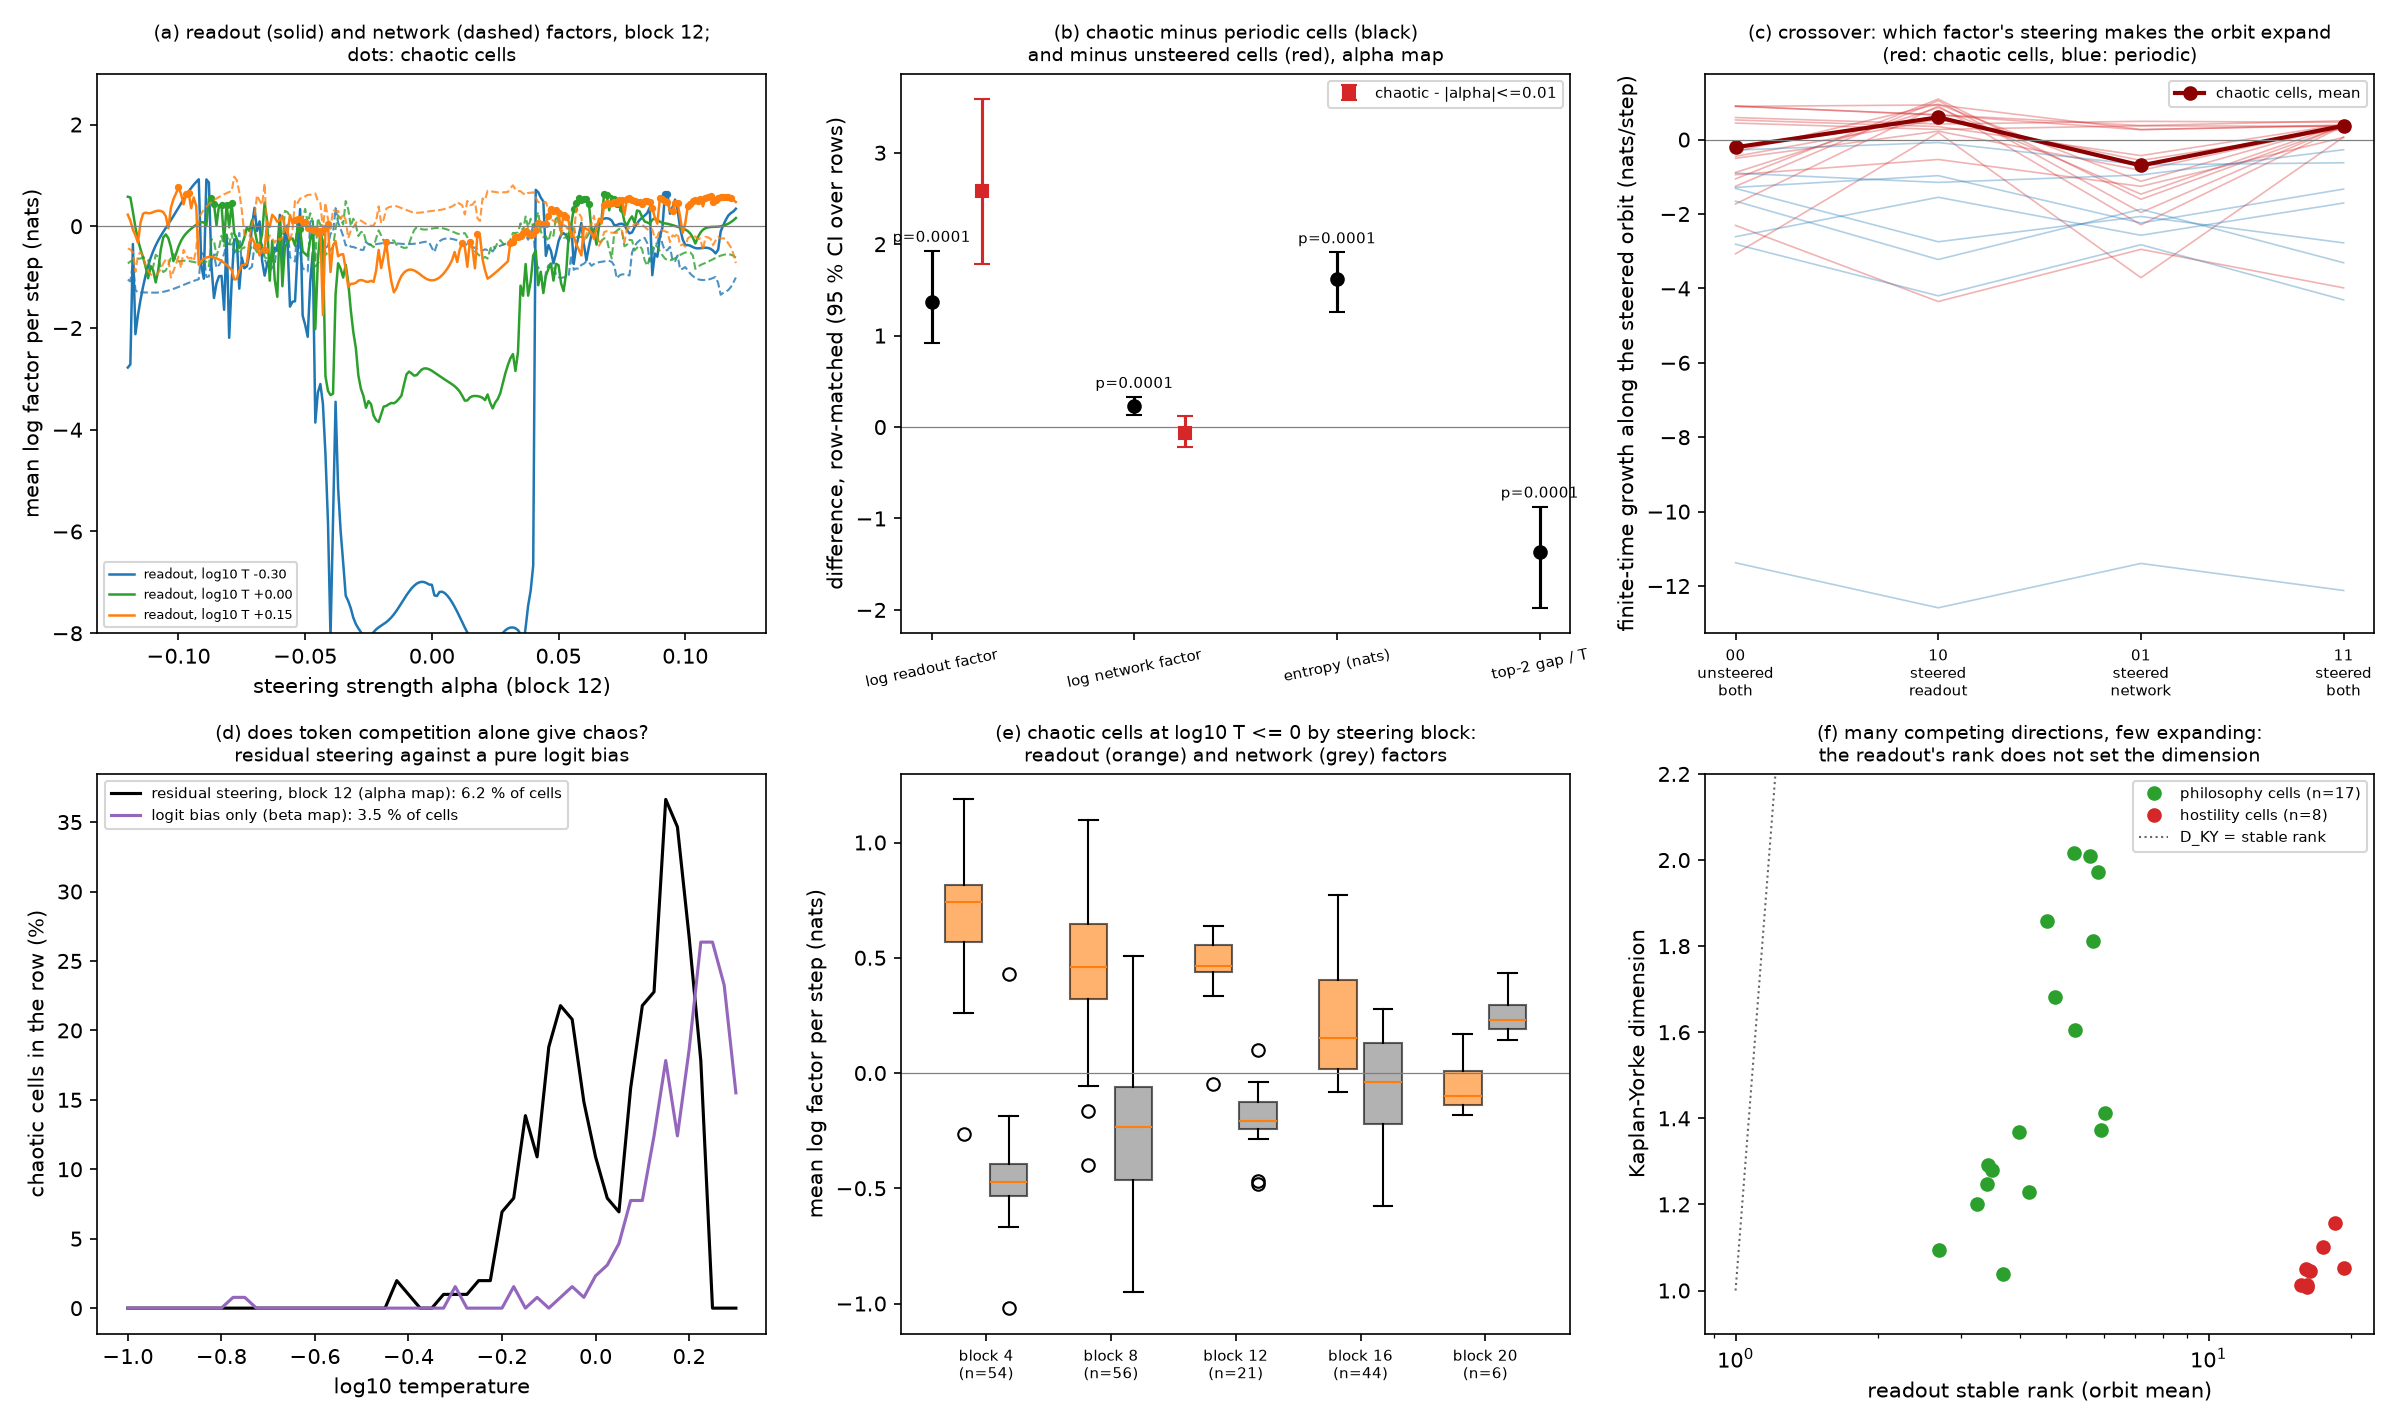
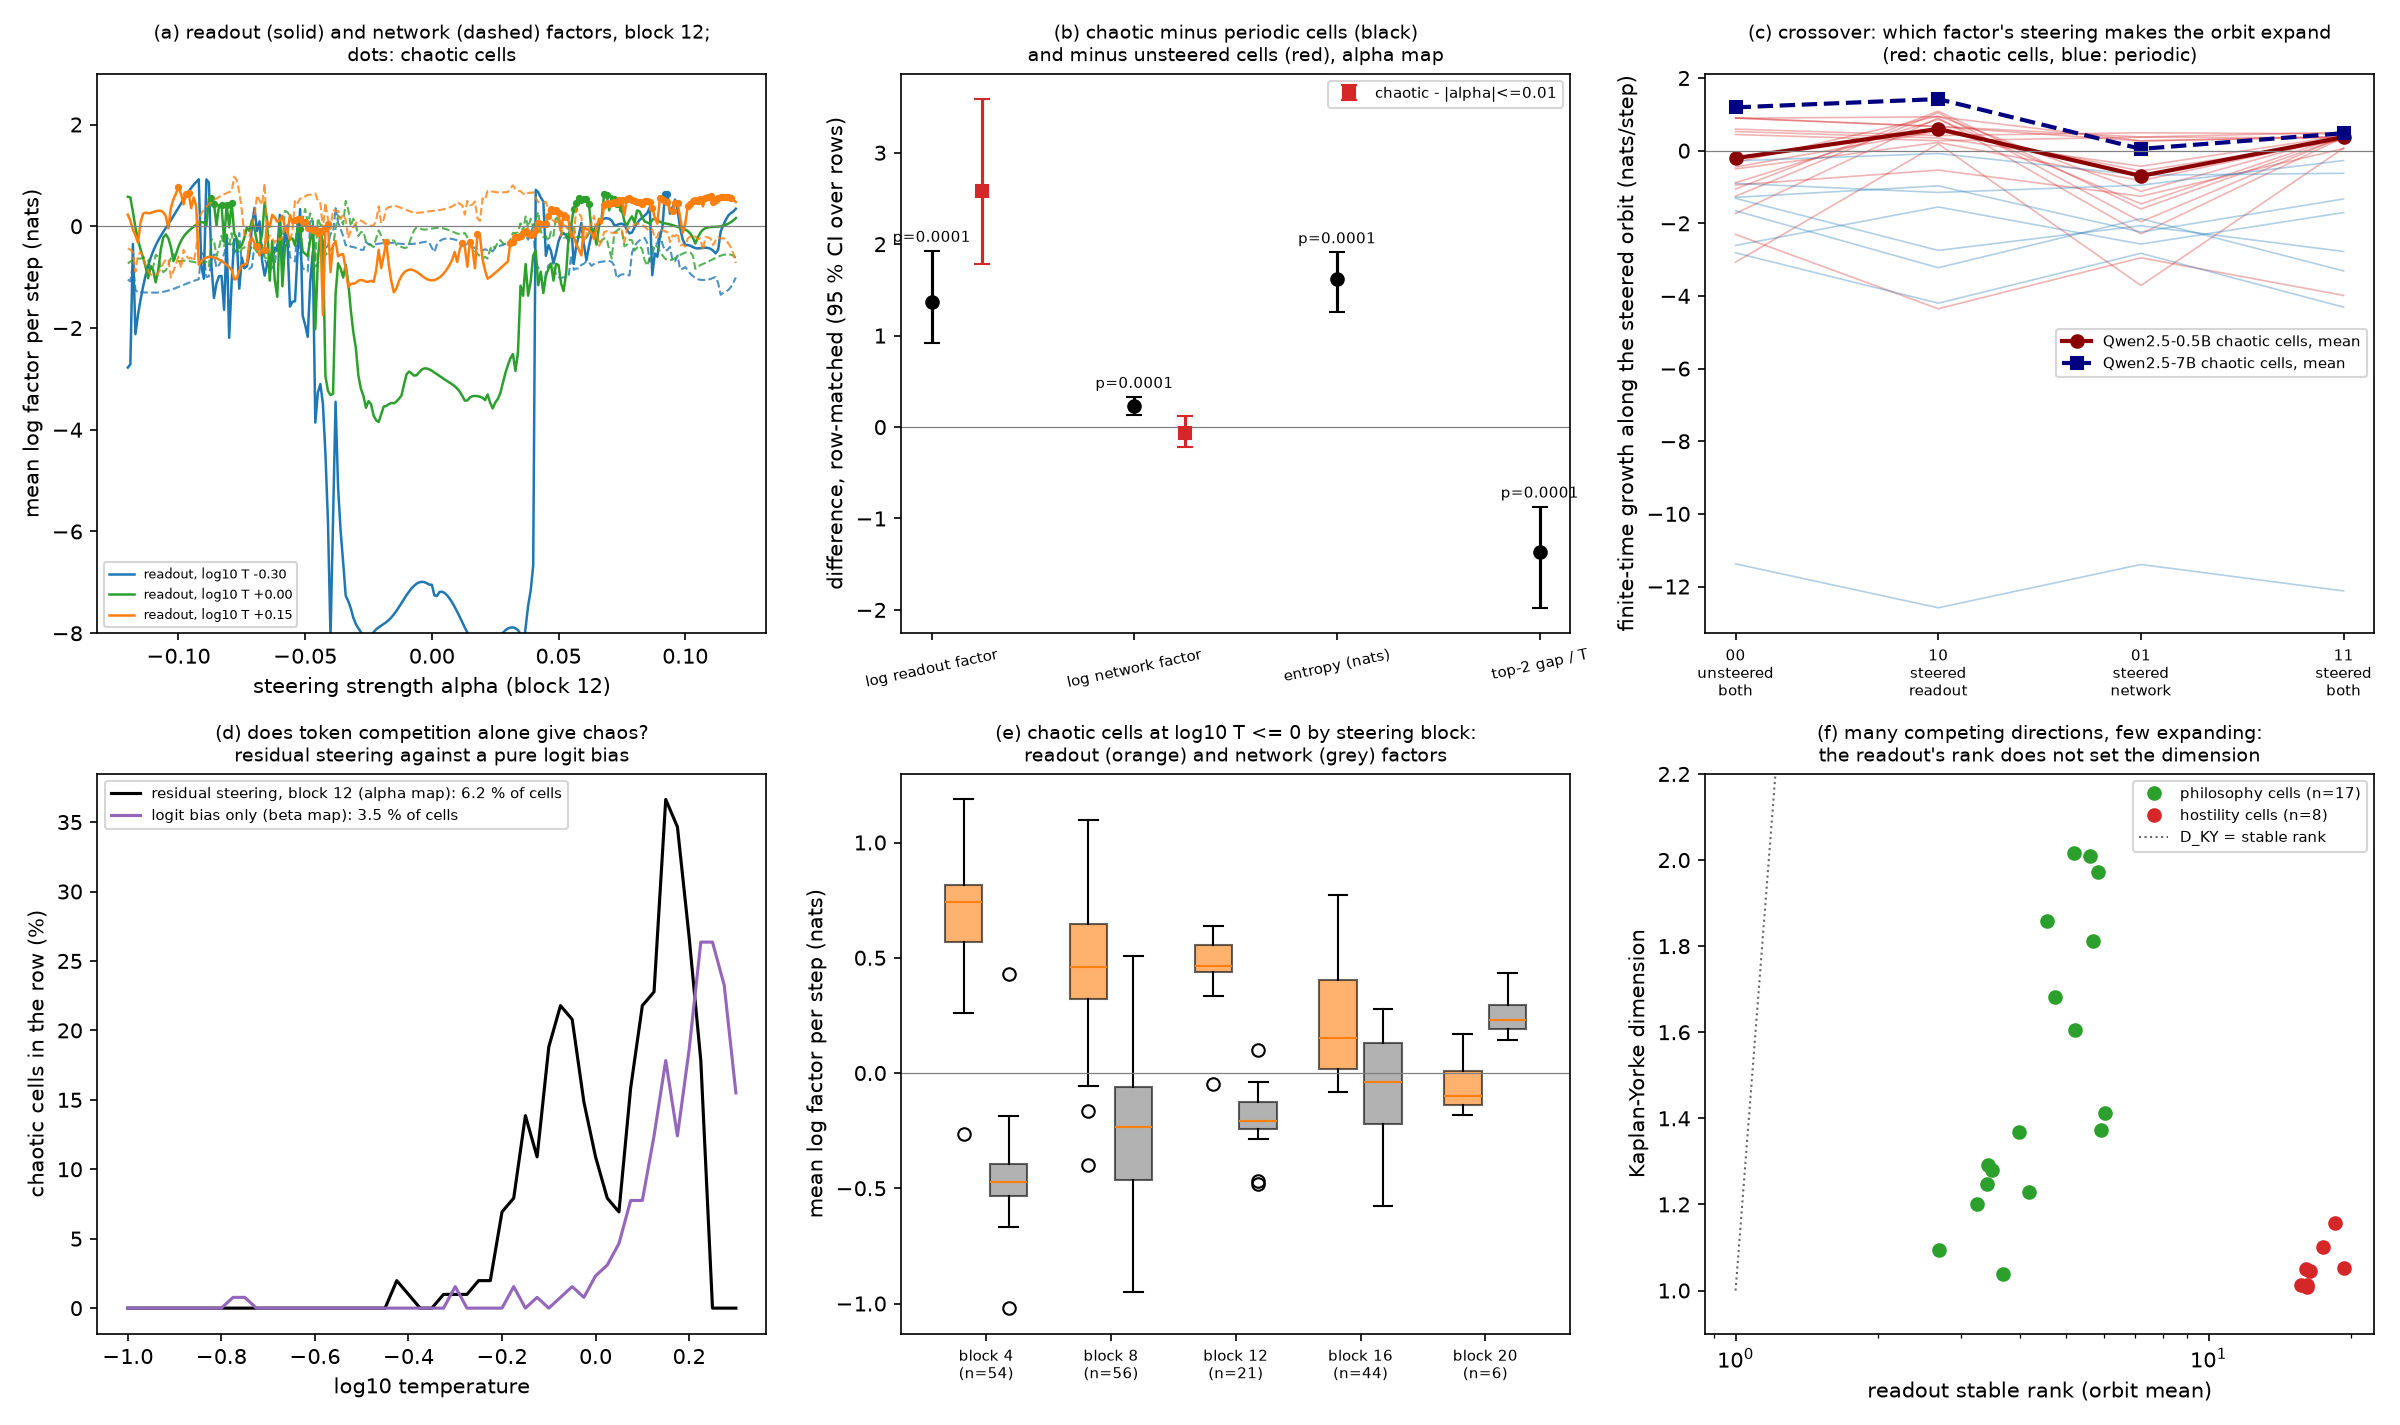
fig-mechanism (c): 7B crossover mean added

Changed region(s): [[0.7188, 0.0618, 1.0, 0.2779]]

diff --git a/tools/plot_mechanism.py b/tools/plot_mechanism.py
@@ -157,7 +157,7 @@ def main():
         sel = chao & held
         if sel.sum():
             m = X[sel].mean(0)
-            ax.plot(range(4), m, "o-", color="darkred", lw=2, label="chaotic cells, mean")
+            ax.plot(range(4), m, "o-", color="darkred", lw=2, label="Qwen2.5-0.5B chaotic cells, mean")
             contr = {"readout_effect (10-00)": X[sel, 1] - X[sel, 0], "network_effect (01-00)": X[sel, 2] - X[sel, 0],
                      "interaction (11-10-01+00)": X[sel, 3] - X[sel, 1] - X[sel, 2] + X[sel, 0],
                      "full_minus_readout_only (11-10)": X[sel, 3] - X[sel, 1]}
@@ -177,6 +177,22 @@ def main():
                                         "readout_effect": float((X[part, 1] - X[part, 0]).mean()),
                                         "network_effect": float((X[part, 2] - X[part, 0]).mean()),
                                         "interaction": float((X[part, 3] - X[part, 1] - X[part, 2] + X[part, 0]).mean())}
+        xo7_f = DATA / "xo" / "cells7" / "crossover.json"
+        if xo7_f.exists():                               # the 7B replication (run XO7): mean over held-out chaotic cells
+            xo7 = json.loads(xo7_f.read_text())
+            lab7 = xo7.get("labels") or []
+            X7 = np.array([[c[a] for a in arms] for c in xo7["cells"]])
+            sel7 = np.array([lab == "chaotic" and i >= 2 for i, lab in enumerate(lab7)])
+            if sel7.sum():
+                ax.plot(range(4), X7[sel7].mean(0), "s--", color="navy", lw=2, label="Qwen2.5-7B chaotic cells, mean")
+                v = X7[sel7, 2] - X7[sel7, 0]
+                b = [rng.choice(v, len(v)).mean() for _ in range(10000)]
+                stats.setdefault("XO7", {})["network_effect (01-00)"] = {
+                    "mean": float(v.mean()), "ci95": [float(np.quantile(b, .025)), float(np.quantile(b, .975))], "cells": int(len(v))}
+                v = X7[sel7, 1] - X7[sel7, 0]
+                b = [rng.choice(v, len(v)).mean() for _ in range(10000)]
+                stats["XO7"]["readout_effect (10-00)"] = {
+                    "mean": float(v.mean()), "ci95": [float(np.quantile(b, .025)), float(np.quantile(b, .975))], "cells": int(len(v))}
         ax.set_xticks(range(4))
         ax.set_xticklabels(["00\nunsteered\nboth", "10\nsteered\nreadout", "01\nsteered\nnetwork", "11\nsteered\nboth"], fontsize=7)
         ax.axhline(0, color="0.5", lw=0.6)

diff --git a/paper/llm/main.tex b/paper/llm/main.tex
@@ -428,7 +428,7 @@ chaotic cells. (b) Row-matched differences between chaotic and periodic cells (b
 unsteered cells (red) on the $101\times53$ map, with 95\,\% bootstrap intervals over temperature rows and
 permutation $p$-values. (c) Orbit-preserving crossover: finite-time growth along each recorded steered orbit when the
 readout and the network Jacobian are taken from the unsteered (0) or steered (1) model; red, chaotic cells; blue,
-periodic cells; dark red, the mean over held-out chaotic cells. (d) Share of chaotic cells per temperature under
+periodic cells; dark red, the mean over held-out chaotic cells; navy, the same mean in Qwen2.5-7B. (d) Share of chaotic cells per temperature under
 residual steering at block 12 and under a pure logit bias along $Wv$. (e) The two factors of the chaotic cells by
 steering block, at $\log_{10}T\le0$. (f) Kaplan--Yorke dimension against the readout's stable rank at the chaotic cells of the dimension
 measurement (Section~\ref{sec:theory}); dotted, equality.}
